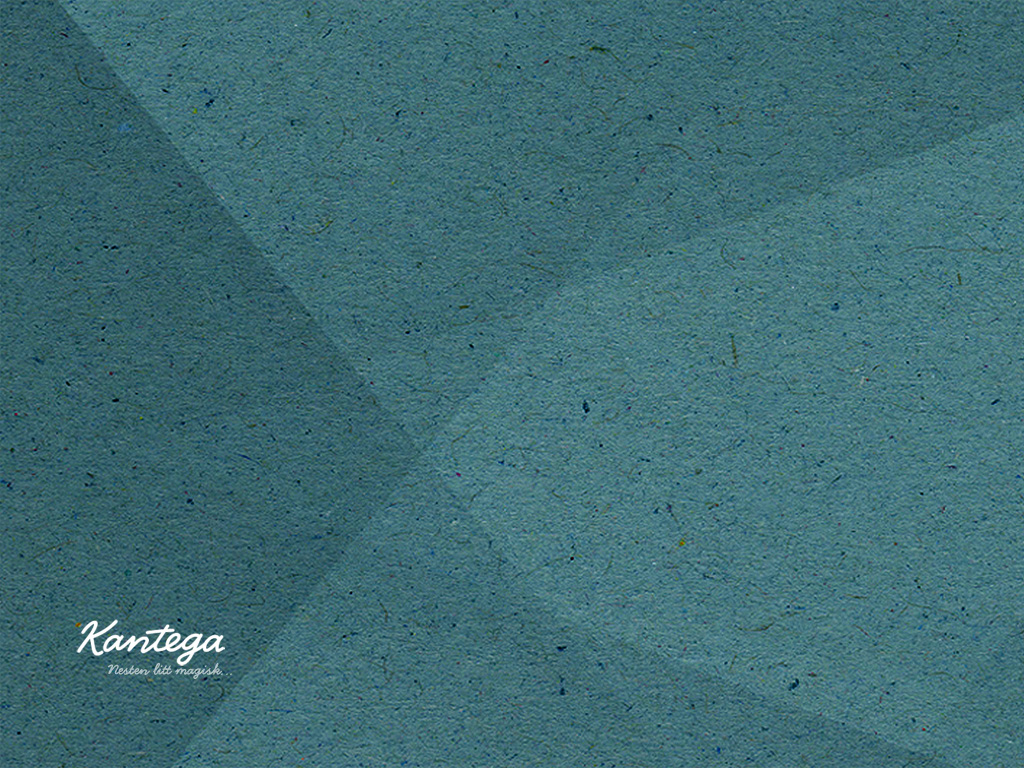
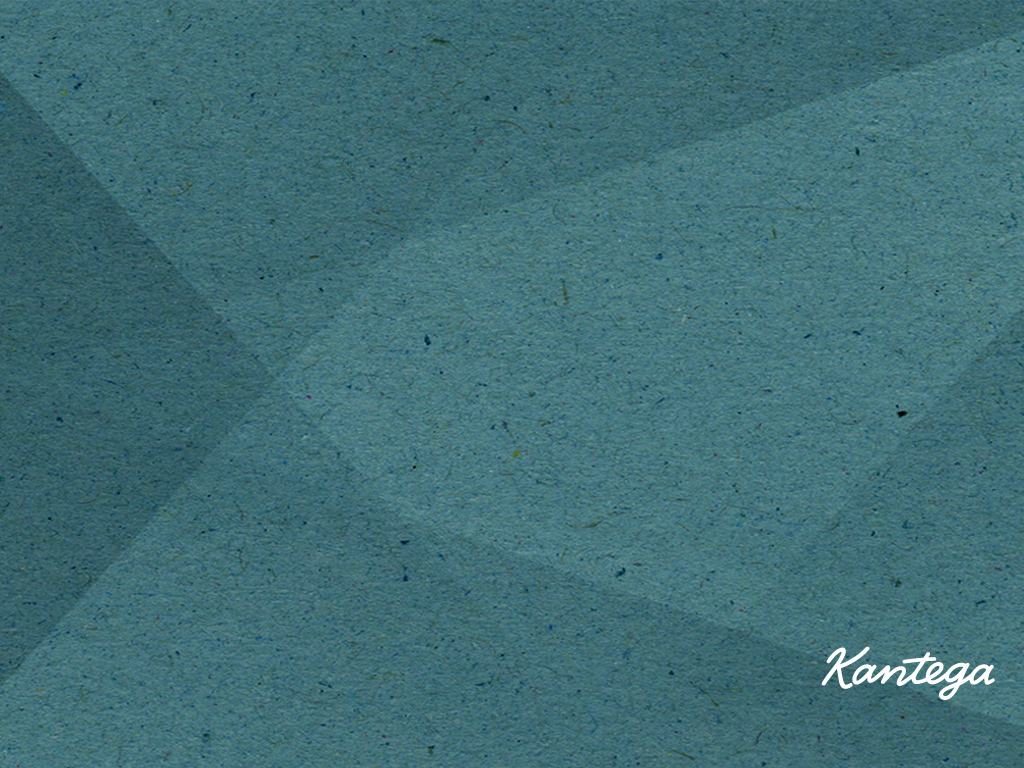
Fikset bug i scrollingen til gjeldende møte. Endret bakgrunnsbilde slik at Kantegalogoen nå ikke skjules bak gjeldende møte.

Changed region(s): [[0.0, 0.0, 1.0, 1.0]]

diff --git a/ios/MeeRoo/MeeRoo/MeeRooViewController.m b/ios/MeeRoo/MeeRoo/MeeRooViewController.m
@@ -99,22 +99,34 @@
     NSArray *todaysMeetings = [self fillInMeetingsWithVacantSpots:[self.dataController getTodaysMeetingInRoom:[room mailbox]]];
     
     int index = 0;
-    int currentMeetingIndex = 0;
+    int currentMeetingIndex = -1;
+    for (Meeting *meeting in todaysMeetings) {
+        if (meeting.isNow) {
+            currentMeetingIndex = index;
+            break;
+        }
+        
+        index++;
+    }
+    
+    if (currentMeetingIndex == -1) {
+        currentMeetingIndex = [todaysMeetings count]-1;
+    }
+    
+    int currentBoxOffset = 0;
+    index = 0;
     for (Meeting *meeting in todaysMeetings) {
         NSLog(@"Adding room to scrollview at index: %i", index);
         CGFloat boxWidth = _scrollView.smallBoxWidth;
         CGFloat boxHeight = _scrollView.smallBoxHeight;
-        if (index == 0) {
+        if (index == currentMeetingIndex) {
             boxWidth = _scrollView.largeBoxWidth;
             boxHeight = _scrollView.largeBoxHeight;
         }
-        if (meeting.isNow) {
-            NSLog(@"Current meeting(%i): %@", index, meeting.subject);
-            currentMeetingIndex = index;
-//            boxWidth = _scrollView.largeBoxWidth;
- //           boxHeight = _scrollView.largeBoxHeight;
-        }
-        CGRect frame = CGRectMake([_scrollView leftMostPointAt:index], 0, boxWidth, boxHeight);
+        
+        currentBoxOffset += boxWidth + _scrollView.boxSpacing;
+        
+        CGRect frame = CGRectMake([_scrollView leftMostPointAt:index forContentOffset:currentBoxOffset], 0, boxWidth, boxHeight);
         
         SlidingView *meetingView = [[SlidingView alloc] initWithFrame:frame headline:[meeting subject] start:[DateUtil hourAndMinutes:[meeting start]] stop:[DateUtil hourAndMinutes:[meeting end]] owner:[meeting owner]];
         [_scrollView addSubview:meetingView];
@@ -131,6 +143,10 @@
         [_scrollView scrollToBoxAt:currentMeetingIndex + 1];
     }
     
+    CGPoint offset = _scrollView.contentOffset;
+    offset.x = offset.x+1;
+
+    [_scrollView setContentOffset:offset];
 }
 
 - (NSArray *) fillInMeetingsWithVacantSpots:(NSArray *) meetings {
@@ -248,7 +264,7 @@
     printf("\n");
     for (UIView *view in [_scrollView subviews]) {
         CGRect frame = view.frame;
-        NSLog(@"[%d] %f - %f : %d ",index, frame.origin.x, frame.origin.x +  frame.size.width, [_scrollView leftMostPointAt:index]);
+//        NSLog(@"[%d] %f - %f : %d ",index, frame.origin.x, frame.origin.x +  frame.size.width, [_scrollView leftMostPointAt:index]);
         index++;
     } 
     printf("\n");
@@ -289,7 +305,7 @@
 
             enteringFrame.size.width = _scrollView.smallBoxWidth + (_scrollView.smallBoxWidth * scalePerentage);
             enteringFrame.size.height = _scrollView.smallBoxHeight + (_scrollView.smallBoxHeight * scalePerentage);
-            enteringFrame.origin.x = [_scrollView leftMostPointAt:entereingElementIndex] - (_scrollView.smallBoxWidth * scalePerentage);
+            enteringFrame.origin.x = [_scrollView leftMostPointAt:entereingElementIndex forContentOffset:scrollView.contentOffset.x] - (_scrollView.smallBoxWidth * scalePerentage);
         
             [[[scrollView subviews] objectAtIndex:entereingElementIndex] setFrame:enteringFrame];
         
@@ -305,7 +321,7 @@
                     CGRect frame = view.frame;
                     frame.size.width = _scrollView.smallBoxWidth;
                     frame.size.height = _scrollView.smallBoxHeight;
-                    frame.origin.x = [_scrollView leftMostPointAt:index];
+                    frame.origin.x = [_scrollView leftMostPointAt:index forContentOffset:scrollView.contentOffset.x];
                     [view setFrame:frame];
                 }
             

diff --git a/ios/MeeRoo/MeeRoo/CustomScrollView.m b/ios/MeeRoo/MeeRoo/CustomScrollView.m
@@ -50,8 +50,14 @@
     return scrollPosition;
 }
 
-- (int) leftMostPointAt:(int)index {
+- (int) leftMostPointAt:(int)index forContentOffset:(float) contentOffset {
     if (index <= 0) { return boxSpacing; }
+
+    int elementLeavingScene = [self indexOfElementLeavingScene:contentOffset];
+    
+    if (index <= elementLeavingScene) {
+        return boxSpacing + (smallBoxWidth + boxSpacing) * (index);
+    } 
     
     return boxSpacing + (largeBoxWidth + boxSpacing) + (smallBoxWidth + boxSpacing) * (index -1);
 }

diff --git a/ios/MeeRoo/MeeRoo/CustomScrollView.h b/ios/MeeRoo/MeeRoo/CustomScrollView.h
@@ -17,7 +17,7 @@
 
 
 - (id) initAtIndex:(int)index;
-- (int) leftMostPointAt:(int)index;
+- (int) leftMostPointAt:(int)index forContentOffset:(float) contentOffset;
 - (int)indexOfElementLeavingScene:(float)contentOffset;
 - (int) scrollToBoxAt:(int)index;
 
